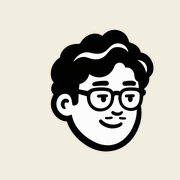
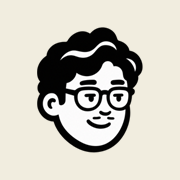
feat(pwa): installable Home Screen app for iPhone
Manifest, centered icons (180/192/512/maskable), launch screens for iPhone 15 Pro / Pro Max / 16 Pro, service worker (network-first dashboard with offline fallback, cleared on Kunci), and in standalone mode a native bottom tab bar with safe-area insets; client invoice links open in a browser sheet.

Changed region(s): [[0.1944, 0.1389, 0.8611, 0.8611]]

diff --git a/index.html b/index.html
@@ -7,6 +7,18 @@
     <!-- Google Fonts: Sora & Space Mono -->
     <link rel="icon" type="image/png" sizes="64x64" href="/brand/favicon-64.png">
     <link rel="apple-touch-icon" href="/brand/apple-touch-icon.png">
+    <!-- PWA: Home Screen app on iPhone -->
+    <link rel="manifest" href="/manifest.webmanifest">
+    <meta name="theme-color" content="#f1eddf">
+    <meta name="apple-mobile-web-app-capable" content="yes">
+    <meta name="mobile-web-app-capable" content="yes">
+    <meta name="apple-mobile-web-app-title" content="DAR">
+    <meta name="apple-mobile-web-app-status-bar-style" content="default">
+    <meta name="format-detection" content="telephone=no">
+    <script>if (window.matchMedia('(display-mode: standalone)').matches || window.navigator.standalone === true) document.documentElement.classList.add('is-standalone');</script>
+    <link rel="apple-touch-startup-image" media="(device-width: 393px) and (device-height: 852px) and (-webkit-device-pixel-ratio: 3) and (orientation: portrait)" href="/brand/splash-1179x2556.png">
+    <link rel="apple-touch-startup-image" media="(device-width: 402px) and (device-height: 874px) and (-webkit-device-pixel-ratio: 3) and (orientation: portrait)" href="/brand/splash-1206x2622.png">
+    <link rel="apple-touch-startup-image" media="(device-width: 430px) and (device-height: 932px) and (-webkit-device-pixel-ratio: 3) and (orientation: portrait)" href="/brand/splash-1290x2796.png">
     <link rel="preconnect" href="https://fonts.googleapis.com">
     <link rel="preconnect" href="https://fonts.gstatic.com" crossorigin>
     <link href="https://fonts.googleapis.com/css2?family=Sora:wght@300;400;500;600;700;800&family=Space+Mono:ital,wght@0,400;0,700;1,400&display=swap" rel="stylesheet">
@@ -2011,11 +2023,11 @@ body[data-view="pack"] #packSection {
         </div>
         <p class="sidebar-caption">Workspace</p>
         <nav aria-label="Navigasi utama">
-            <button class="sidebar-link active" data-view="board" aria-pressed="true" onclick="setWorkspaceView('board')"><span aria-hidden="true"><svg class="nav-icon" width="18" height="18" viewBox="0 0 24 24" fill="none" stroke="currentColor" stroke-width="1.8" stroke-linecap="round" stroke-linejoin="round" aria-hidden="true"><rect x="3" y="3" width="7" height="7" rx="1.5"/><rect x="14" y="3" width="7" height="7" rx="1.5"/><rect x="3" y="14" width="7" height="7" rx="1.5"/><rect x="14" y="14" width="7" height="7" rx="1.5"/></svg></span> Invoice</button>
-            <button class="sidebar-link" data-view="report" aria-pressed="false" onclick="setWorkspaceView('report')"><span aria-hidden="true"><svg class="nav-icon" width="18" height="18" viewBox="0 0 24 24" fill="none" stroke="currentColor" stroke-width="1.8" stroke-linecap="round" stroke-linejoin="round" aria-hidden="true"><path d="M4 20V10M10 20V4M16 20v-7M22 20H2"/></svg></span> Laporan keuangan</button>
-            <button class="sidebar-link" data-view="debt" aria-pressed="false" onclick="setWorkspaceView('debt')"><span aria-hidden="true"><svg class="nav-icon" width="18" height="18" viewBox="0 0 24 24" fill="none" stroke="currentColor" stroke-width="1.8" stroke-linecap="round" stroke-linejoin="round" aria-hidden="true"><path d="M12 3v18M7 21h10M5 7h14"/><path d="M5 7l-3 7a3 3 0 0 0 6 0L5 7zM19 7l-3 7a3 3 0 0 0 6 0l-3-7z"/></svg></span> Hutang &amp; Piutang</button>
-            <button class="sidebar-link" data-view="plan" aria-pressed="false" onclick="setWorkspaceView('plan')"><span aria-hidden="true"><svg class="nav-icon" width="18" height="18" viewBox="0 0 24 24" fill="none" stroke="currentColor" stroke-width="1.8" stroke-linecap="round" stroke-linejoin="round" aria-hidden="true"><rect x="3" y="4" width="18" height="17" rx="2"/><path d="M16 2v4M8 2v4M3 10h18M8 15h3M8 18h6"/></svg></span> Rencana pengeluaran</button>
-            <button class="sidebar-link" data-view="pack" aria-pressed="false" onclick="setWorkspaceView('pack')"><span aria-hidden="true"><svg class="nav-icon" width="18" height="18" viewBox="0 0 24 24" fill="none" stroke="currentColor" stroke-width="1.8" stroke-linecap="round" stroke-linejoin="round" aria-hidden="true"><rect x="3" y="7" width="18" height="13" rx="2"/><path d="M8 7V5a2 2 0 0 1 2-2h4a2 2 0 0 1 2 2v2M3 13h18M10 13v2h4v-2"/></svg></span> Barang bawaan</button>
+            <button class="sidebar-link active" data-view="board" data-short="Invoice" aria-pressed="true" onclick="setWorkspaceView('board')"><span aria-hidden="true"><svg class="nav-icon" width="18" height="18" viewBox="0 0 24 24" fill="none" stroke="currentColor" stroke-width="1.8" stroke-linecap="round" stroke-linejoin="round" aria-hidden="true"><rect x="3" y="3" width="7" height="7" rx="1.5"/><rect x="14" y="3" width="7" height="7" rx="1.5"/><rect x="3" y="14" width="7" height="7" rx="1.5"/><rect x="14" y="14" width="7" height="7" rx="1.5"/></svg></span> Invoice</button>
+            <button class="sidebar-link" data-view="report" data-short="Laporan" aria-pressed="false" onclick="setWorkspaceView('report')"><span aria-hidden="true"><svg class="nav-icon" width="18" height="18" viewBox="0 0 24 24" fill="none" stroke="currentColor" stroke-width="1.8" stroke-linecap="round" stroke-linejoin="round" aria-hidden="true"><path d="M4 20V10M10 20V4M16 20v-7M22 20H2"/></svg></span> Laporan keuangan</button>
+            <button class="sidebar-link" data-view="debt" data-short="Hutang" aria-pressed="false" onclick="setWorkspaceView('debt')"><span aria-hidden="true"><svg class="nav-icon" width="18" height="18" viewBox="0 0 24 24" fill="none" stroke="currentColor" stroke-width="1.8" stroke-linecap="round" stroke-linejoin="round" aria-hidden="true"><path d="M12 3v18M7 21h10M5 7h14"/><path d="M5 7l-3 7a3 3 0 0 0 6 0L5 7zM19 7l-3 7a3 3 0 0 0 6 0l-3-7z"/></svg></span> Hutang &amp; Piutang</button>
+            <button class="sidebar-link" data-view="plan" data-short="Rencana" aria-pressed="false" onclick="setWorkspaceView('plan')"><span aria-hidden="true"><svg class="nav-icon" width="18" height="18" viewBox="0 0 24 24" fill="none" stroke="currentColor" stroke-width="1.8" stroke-linecap="round" stroke-linejoin="round" aria-hidden="true"><rect x="3" y="4" width="18" height="17" rx="2"/><path d="M16 2v4M8 2v4M3 10h18M8 15h3M8 18h6"/></svg></span> Rencana pengeluaran</button>
+            <button class="sidebar-link" data-view="pack" data-short="Bawaan" aria-pressed="false" onclick="setWorkspaceView('pack')"><span aria-hidden="true"><svg class="nav-icon" width="18" height="18" viewBox="0 0 24 24" fill="none" stroke="currentColor" stroke-width="1.8" stroke-linecap="round" stroke-linejoin="round" aria-hidden="true"><rect x="3" y="7" width="18" height="13" rx="2"/><path d="M8 7V5a2 2 0 0 1 2-2h4a2 2 0 0 1 2 2v2M3 13h18M10 13v2h4v-2"/></svg></span> Barang bawaan</button>
             <button class="sidebar-link mobile-lock" onclick="lockAdminDashboard()">Kunci</button>
         </nav>
         <div class="sidebar-note"><span>Catatan workspace</span><p>Status pembayaran dan profit bisa dikelola langsung dari kartu invoice.</p></div>
@@ -4723,9 +4735,30 @@ body[data-view="pack"] #packSection {
             if (workspaceLocked) return;
             workspaceLocked = true;
             document.getElementById('invoiceManagerDialog')?.close();
+            // Drop the offline copy of the dashboard so nothing financial stays on the device.
+            try { navigator.serviceWorker?.controller?.postMessage('clear-dashboard-cache'); } catch (e) {}
             fetch('/api/logout', { method: 'POST', keepalive: true, credentials: 'same-origin' })
                 .finally(() => window.location.replace('/'));
         }
+
+        // ---- PWA (Home Screen app) ----
+        const isStandaloneApp = window.matchMedia('(display-mode: standalone)').matches || window.navigator.standalone === true;
+        if (isStandaloneApp) document.documentElement.classList.add('is-standalone');
+        if ('serviceWorker' in navigator) {
+            window.addEventListener('load', () => navigator.serviceWorker.register('/sw.js').catch(() => {}));
+        }
+        // In the Home Screen app a client invoice page would open with no way back; open it in a browser sheet instead.
+        document.addEventListener('click', event => {
+            if (!isStandaloneApp) return;
+            const link = event.target.closest && event.target.closest('a[href]');
+            if (!link || link.target === '_blank') return;
+            const url = new URL(link.href, location.href);
+            const isDashboard = url.origin === location.origin && ['/', '/index', '/index.html'].includes(url.pathname);
+            if (url.protocol.startsWith('http') && !isDashboard) {
+                event.preventDefault();
+                window.open(url.href, '_blank', 'noopener');
+            }
+        });
 
         // Halaman yang dipulihkan dari cache browser harus dicek ulang oleh server.
         window.addEventListener("pageshow", function(event) {

diff --git a/sw.js b/sw.js
@@ -1,0 +1,122 @@
+// DAR Invoices service worker: makes the dashboard open instantly from the Home Screen and
+// still show the last loaded version when offline. Only the dashboard and its own assets are
+// handled; client invoice pages and /api are always left to the network.
+const VERSION = 'dar-pwa-v1';
+const SHELL_CACHE = `${VERSION}-shell`;
+const ASSET_CACHE = `${VERSION}-assets`;
+
+const PRECACHE = [
+  '/dashboard.css',
+  '/invoice-manager.js',
+  '/manifest.webmanifest',
+  '/brand/dar-mascot-128.png',
+  '/brand/dar-mascot-fab.png',
+  '/brand/icon-192.png',
+  '/brand/apple-touch-icon.png',
+];
+
+const DASHBOARD_PAGES = new Set(['/', '/index', '/index.html', '/admin-login']);
+const ASSET_PREFIXES = ['/brand/', '/bank-logos/'];
+const ASSET_FILES = new Set(['/dashboard.css', '/invoice-manager.js', '/manifest.webmanifest']);
+const FONT_HOSTS = new Set(['fonts.googleapis.com', 'fonts.gstatic.com']);
+
+self.addEventListener('install', (event) => {
+  event.waitUntil(
+    caches.open(ASSET_CACHE)
+      .then((cache) => cache.addAll(PRECACHE))
+      .catch(() => {})
+      .then(() => self.skipWaiting()),
+  );
+});
+
+self.addEventListener('activate', (event) => {
+  event.waitUntil(
+    caches.keys()
+      .then((keys) => Promise.all(keys.filter((k) => !k.startsWith(VERSION)).map((k) => caches.delete(k))))
+      .then(() => self.clients.claim()),
+  );
+});
+
+// The dashboard asks for this on "Kunci" so no copy of the financial page stays on the device.
+self.addEventListener('message', (event) => {
+  if (event.data === 'clear-dashboard-cache') {
+    event.waitUntil(caches.delete(SHELL_CACHE));
+  }
+});
+
+self.addEventListener('fetch', (event) => {
+  const { request } = event;
+  if (request.method !== 'GET') return;
+  const url = new URL(request.url);
+
+  if (FONT_HOSTS.has(url.hostname)) {
+    event.respondWith(cacheFirst(request, ASSET_CACHE));
+    return;
+  }
+  if (url.origin !== self.location.origin || url.pathname.startsWith('/api/')) return;
+
+  if (request.mode === 'navigate' && DASHBOARD_PAGES.has(url.pathname)) {
+    event.respondWith(networkFirstPage(request));
+    return;
+  }
+  // Code changes often: always try the network first so a new deploy shows up immediately.
+  if (ASSET_FILES.has(url.pathname)) {
+    event.respondWith(networkFirst(request, ASSET_CACHE));
+    return;
+  }
+  if (ASSET_PREFIXES.some((p) => url.pathname.startsWith(p))) {
+    event.respondWith(staleWhileRevalidate(request, ASSET_CACHE));
+  }
+});
+
+async function networkFirst(request, cacheName) {
+  const cache = await caches.open(cacheName);
+  try {
+    const response = await fetch(request);
+    if (response.ok) cache.put(request, response.clone());
+    return response;
+  } catch (error) {
+    const cached = await cache.match(request, { ignoreSearch: true });
+    if (cached) return cached;
+    throw error;
+  }
+}
+
+async function networkFirstPage(request) {
+  const cache = await caches.open(SHELL_CACHE);
+  try {
+    const response = await fetch(request);
+    if (response.ok) cache.put('/', response.clone());
+    return response;
+  } catch (error) {
+    const cached = await cache.match('/');
+    if (cached) return cached;
+    return new Response(
+      '<!doctype html><meta charset="utf-8"><meta name="viewport" content="width=device-width,initial-scale=1">' +
+      '<body style="font-family:-apple-system,sans-serif;background:#f1eddf;color:#272722;display:grid;place-items:center;min-height:100vh;margin:0;text-align:center;padding:24px">' +
+      '<div><h2>Lagi offline</h2><p>Sambungkan internet, lalu buka lagi DAR.</p></div>',
+      { headers: { 'Content-Type': 'text/html; charset=utf-8' } },
+    );
+  }
+}
+
+async function staleWhileRevalidate(request, cacheName) {
+  const cache = await caches.open(cacheName);
+  const cached = await cache.match(request);
+  const network = fetch(request)
+    .then((response) => {
+      if (response.ok) cache.put(request, response.clone());
+      return response;
+    })
+    .catch(() => cached);
+  return cached || network;
+}
+
+async function cacheFirst(request, cacheName) {
+  const cache = await caches.open(cacheName);
+  const cached = await cache.match(request);
+  if (cached) return cached;
+  const response = await fetch(request);
+  if (response.ok || response.type === 'opaque') cache.put(request, response.clone());
+  return response;
+}

diff --git a/dashboard.css b/dashboard.css
@@ -2960,3 +2960,55 @@ body.ai-open .ai-fab { display: none; }
 @media (max-width: 600px) {
     .portal-container { padding-bottom: 84px; }
 }
+
+/* ========================================================
+   PWA — Home Screen app on iPhone (standalone mode)
+   ======================================================== */
+html.is-standalone, html.is-standalone body {
+    -webkit-tap-highlight-color: transparent;
+    overscroll-behavior-y: none;
+}
+html.is-standalone button, html.is-standalone .sidebar-link, html.is-standalone .month-pill-btn, html.is-standalone .create-invoice-btn {
+    -webkit-user-select: none; user-select: none;
+    -webkit-touch-callout: none;
+}
+@media (max-width: 600px) {
+    html.is-standalone body {
+        --tabbar-h: 62px;
+        padding-top: calc(env(safe-area-inset-top) + 8px);
+        padding-bottom: calc(var(--tabbar-h) + env(safe-area-inset-bottom) + 24px);
+    }
+    /* Native-style bottom tab bar */
+    html.is-standalone .workspace-sidebar nav {
+        position: fixed; left: 0; right: 0; bottom: 0; z-index: 60;
+        display: grid; grid-template-columns: repeat(5, minmax(0, 1fr)); gap: 0;
+        margin: 0; padding: 6px 6px calc(6px + env(safe-area-inset-bottom));
+        background: rgba(250, 248, 238, .86);
+        -webkit-backdrop-filter: saturate(180%) blur(18px); backdrop-filter: saturate(180%) blur(18px);
+        border-top: 1px solid rgba(39, 39, 34, .12);
+    }
+    html.is-standalone .workspace-sidebar nav .sidebar-link {
+        min-height: 50px; padding: 4px 2px; gap: 3px; margin: 0;
+        background: transparent; border-radius: 10px; box-shadow: none;
+        color: #8a8577; font-size: 0; font-weight: 600;
+    }
+    html.is-standalone .workspace-sidebar nav .sidebar-link::after {
+        content: attr(data-short); font-size: 10.5px; line-height: 1.1; letter-spacing: .01em;
+    }
+    html.is-standalone .workspace-sidebar nav .sidebar-link,
+    html.is-standalone .workspace-sidebar nav .sidebar-link.active { border-color: transparent; transition: color .15s, transform .1s; }
+    html.is-standalone .workspace-sidebar nav .sidebar-link.active { background: transparent; color: #24241f; }
+    html.is-standalone .workspace-sidebar nav .sidebar-link .nav-icon { width: 23px; height: 23px; }
+    html.is-standalone .workspace-sidebar nav .sidebar-link.mobile-lock { display: none !important; }
+    html.is-standalone .workspace-sidebar nav .sidebar-link:active { transform: scale(.94); }
+    /* Header keeps only brand + lock */
+    html.is-standalone .workspace-sidebar { margin-bottom: 12px; padding: 8px 12px; }
+    /* Floating buttons sit above the tab bar */
+    html.is-standalone .ai-fab, html.is-standalone .ai-fab:hover { bottom: calc(var(--tabbar-h) + env(safe-area-inset-bottom) + 12px); }
+    html.is-standalone body[data-view="plan"] .ai-fab { bottom: calc(var(--tabbar-h) + env(safe-area-inset-bottom) + 78px); }
+    html.is-standalone body[data-view="plan"] .pl-fab { bottom: calc(var(--tabbar-h) + env(safe-area-inset-bottom) + 12px); }
+    html.is-standalone .toast { bottom: calc(var(--tabbar-h) + env(safe-area-inset-bottom) + 12px); }
+    html.is-standalone body.ai-open .workspace-sidebar nav { display: none; }
+    /* Full-screen assistant respects the notch / Dynamic Island */
+    html.is-standalone .ai-panel { padding-top: env(safe-area-inset-top); }
+}

diff --git a/admin-login.html b/admin-login.html
@@ -7,6 +7,16 @@
     <title>DAR INVOICES | Masuk</title>
     <link rel="icon" type="image/png" sizes="64x64" href="/brand/favicon-64.png">
     <link rel="apple-touch-icon" href="/brand/apple-touch-icon.png">
+    <link rel="manifest" href="/manifest.webmanifest">
+    <meta name="theme-color" content="#eae5d8">
+    <meta name="apple-mobile-web-app-capable" content="yes">
+    <meta name="mobile-web-app-capable" content="yes">
+    <meta name="apple-mobile-web-app-title" content="DAR">
+    <meta name="apple-mobile-web-app-status-bar-style" content="default">
+    <link rel="apple-touch-startup-image" media="(device-width: 393px) and (device-height: 852px) and (-webkit-device-pixel-ratio: 3) and (orientation: portrait)" href="/brand/splash-1179x2556.png">
+    <link rel="apple-touch-startup-image" media="(device-width: 402px) and (device-height: 874px) and (-webkit-device-pixel-ratio: 3) and (orientation: portrait)" href="/brand/splash-1206x2622.png">
+    <link rel="apple-touch-startup-image" media="(device-width: 430px) and (device-height: 932px) and (-webkit-device-pixel-ratio: 3) and (orientation: portrait)" href="/brand/splash-1290x2796.png">
+    <script>if ('serviceWorker' in navigator) navigator.serviceWorker.register('/sw.js').catch(function () {});</script>
     <link rel="preconnect" href="https://fonts.googleapis.com">
     <link rel="preconnect" href="https://fonts.gstatic.com" crossorigin>
     <link href="https://fonts.googleapis.com/css2?family=Sora:wght@400;500;600&display=swap" rel="stylesheet">
